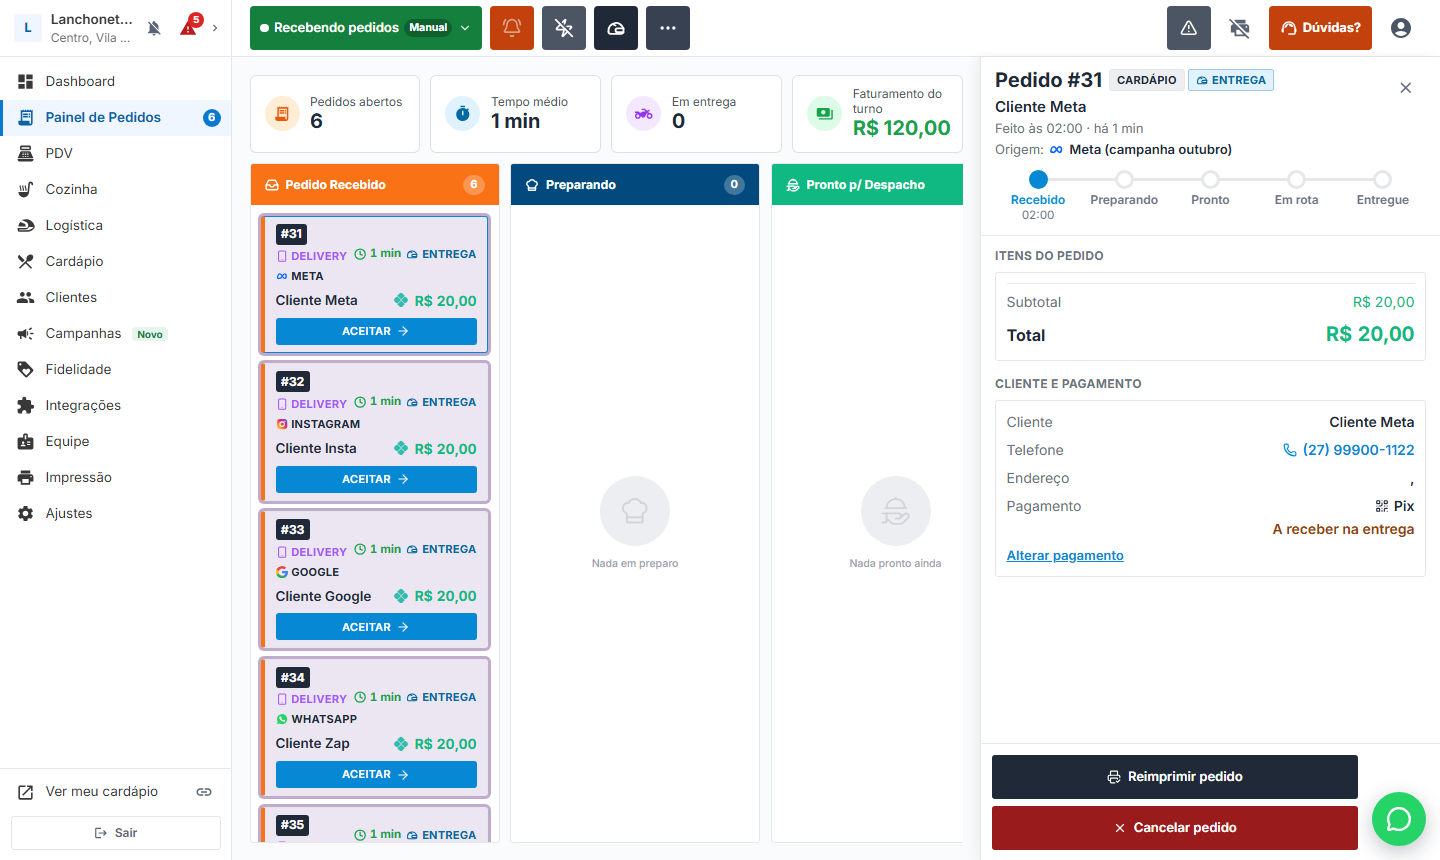
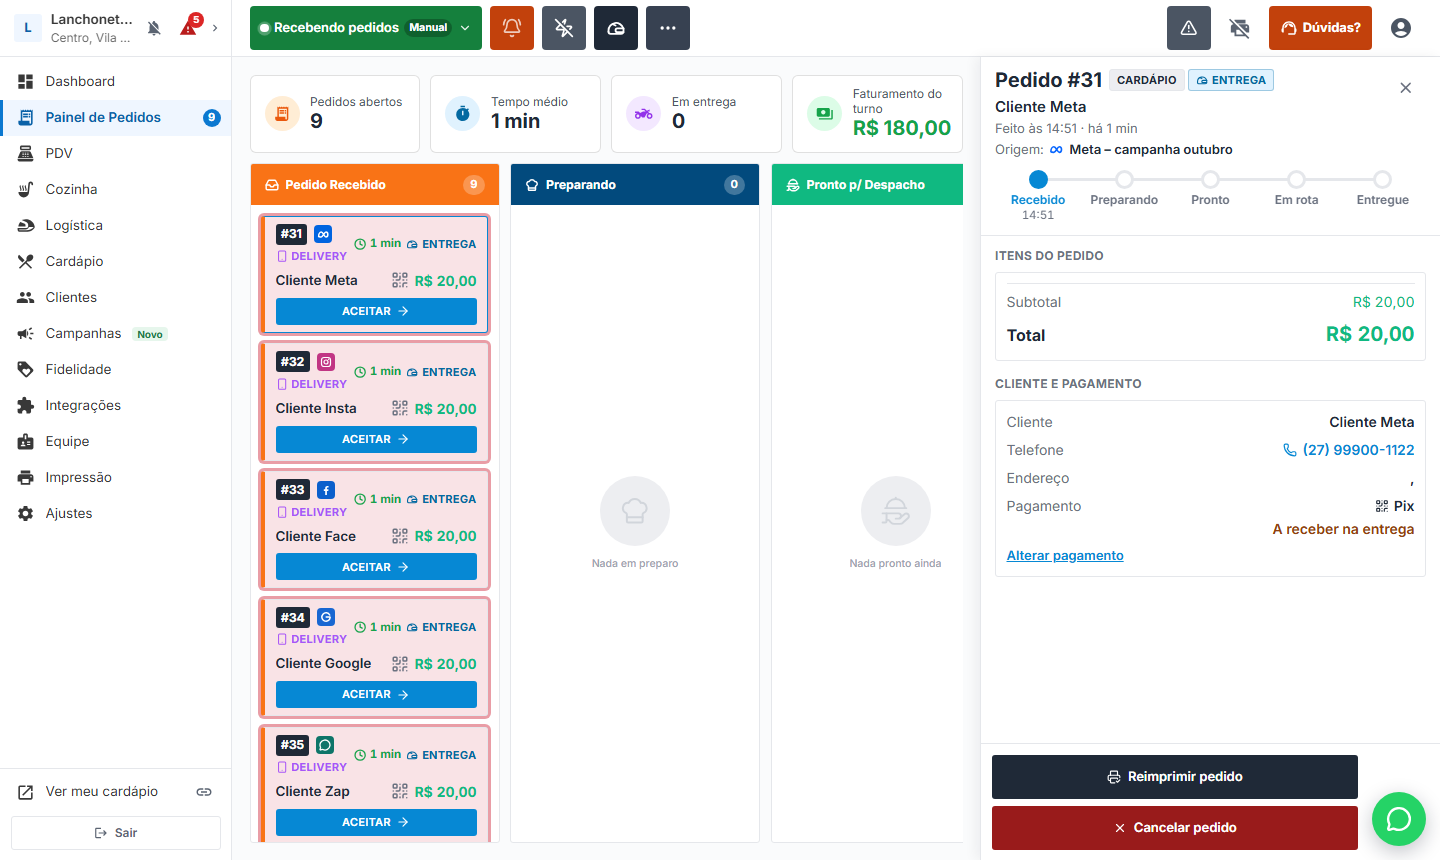
fix(kanban): card antigo + só o ícone da origem ao lado do número, com dica (decisão do dono, 07/10)
- Mantém a volta ao visual de antes do item 56 (efce662) e muda só isto no card antigo: o ícone da
  origem da vitrine (Meta, Facebook, Instagram, Google, WhatsApp, QR Code, Outros) num selo de 18 px
  colado no número, com a dica "Origem: Instagram – campanha X" na camada máxima (Dica).
- Selo com fundo sólido na cor da marca escurecida e desenho branco (≥ 5:1); Direto, PDV, Mesa e
  Balcão sem ícone; o card não ganha linha.
- Pagamento com os ícones antigos (sai o Pix colorido do item 56).
- Painel lateral continua mostrando a origem.
- e2e-kanban-origem 29/29; e2e-origem-55 tira os pedidos TESTE… como o Dashboard (35/35);
  pdv-atendimento 97/97 e balcao-entrega 84/84 voltaram a passar com o card antigo.

Changed region(s): [[0.1562, 0.2419, 0.3438, 0.9977], [0.7188, 0.1209, 0.875, 0.1814], [0.625, 0.1209, 0.6562, 0.1814]]

diff --git a/app/admin/pedidos/page.tsx b/app/admin/pedidos/page.tsx
@@ -45,7 +45,7 @@ import { buscarFluxoLoja, buscarStatusELoja, definirStatusLoja, FLUXO_LOJA_PADRA
 import { lojaEstaAberta, type HorarioFuncionamento, type StatusLoja } from '@/lib/timezone'
 import { notificarPedido } from '@/lib/notificar'
 import { etiquetasDoPedido, origemVisivelNoCard, rotuloOrigemPedido as origemDoCard } from '@/lib/pedido-origem'
-import { IconeOrigem, IconePix } from '@/components/icones/origens'
+import { SeloOrigem } from '@/components/icones/origens'
 import { EtiquetaAtendimento } from '@/components/pedidos/etiquetas-pedido'
 import { Capacete } from '@/components/icones/capacete'
 import { Dica, Flutuante } from '@/components/ui/flutuante'
@@ -993,18 +993,21 @@ export default function PedidosPage() {
                         <div className="flex items-center justify-between gap-2">
                           <div className="flex min-w-0 flex-wrap items-center gap-x-2 gap-y-1">
                             <span className="rounded-menuzia bg-text-main px-1.5 py-0.5 text-sm font-bold text-white">#{order.numero}</span>
+                            {/* Origem do pedido da vitrine (item 55): só o ícone, ao lado do número, com a dica.
+                                Direto, PDV, Mesa e Balcão não mostram nada. É a única mudança no card antigo. */}
+                            {(() => {
+                              const o = order.origemCanal && order.origemCanal !== 'direto' ? origemVisivelNoCard(order) : null
+                              return o && !['pdv', 'mesa', 'balcao'].includes(o.icone) ? (
+                                <Dica texto={o.dica}>
+                                  <span className="inline-flex" aria-label={o.dica} data-testid="card-origem" data-origem={o.icone}>
+                                    <SeloOrigem canal={o.icone} />
+                                  </span>
+                                </Dica>
+                              ) : null
+                            })()}
                             {origemDoCard(order).posto === 'Salão' && <span className={`${SELO} text-[#047857]`} data-testid="selo-origem"><Store className="h-3.5 w-3.5" aria-hidden /> Salão</span>}
                             {origemDoCard(order).posto === 'PDV' && <span className={`${SELO} text-alert-text`} data-testid="selo-origem"><Monitor className="h-3.5 w-3.5" aria-hidden /> PDV</span>}
                             {origemDoCard(order).posto === 'Delivery' && <span className={`${SELO} text-purple`} data-testid="selo-origem"><Smartphone className="h-3.5 w-3.5" aria-hidden /> Delivery</span>}
-                            {/* Origem do pedido da vitrine (item 55): ícone e nome (Meta, Instagram, Google, WhatsApp…); Direto não mostra nada. */}
-                            {(() => {
-                              const o = order.origemCanal && order.origemCanal !== 'direto' ? origemVisivelNoCard(order) : null
-                              return o ? (
-                                <span className={`${SELO} text-text-main`} title={o.dica} aria-label={o.dica} data-testid="card-origem" data-origem={o.icone}>
-                                  <IconeOrigem canal={o.icone} className="h-3.5 w-3.5" /> {o.rotulo}
-                                </span>
-                              ) : null
-                            })()}
                             {order.agendadoPara && <Badge tone="alert">Agendado {textoAgendado(order.agendadoPara)}</Badge>}
                           </div>
                           <div className="flex flex-shrink-0 items-center gap-1.5">
@@ -1030,8 +1033,7 @@ export default function PedidosPage() {
                           <div className="flex flex-shrink-0 items-center gap-1.5">
                             {order.canal !== 'mesa' && (
                               <span className="inline-flex text-text-subtle" title={dicaPag} aria-label={dicaPag} data-testid="card-pagamento">
-                                {/* Ícones de pagamento do item 56 (mantidos a pedido do dono): Pix oficial, cartão azul, dinheiro verde. */}
-                                {order.formaPagamento === 'pix' ? <IconePix className="h-[16px] w-[16px]" /> : <IconePag className={`h-[18px] w-[18px] ${order.formaPagamento === 'dinheiro' ? 'text-[#047857]' : 'text-[#1D4ED8]'}`} aria-hidden />}
+                                <IconePag className="h-[18px] w-[18px]" aria-hidden />
                               </span>
                             )}
                             <span className="whitespace-nowrap text-[14px] font-bold tabular-nums text-status-ready" data-testid="card-preco">{brl(order.total)}</span>

diff --git a/components/icones/origens.tsx b/components/icones/origens.tsx
@@ -1,4 +1,4 @@
-import { Globe, Link2, Megaphone, Monitor, QrCode, Store, UtensilsCrossed } from 'lucide-react'
+import { Globe, Link2, Megaphone, MessageCircle, Monitor, QrCode, Store, UtensilsCrossed } from 'lucide-react'
 
 /**
  * Ícones das origens (item 55/56): marcas desenhadas em SVG simples (sem pacote de logos) + lucide.
@@ -74,5 +74,38 @@ export function IconePix({ className = 'h-4 w-4' }: P) {
     <svg viewBox="0 0 16 16" className={className} fill="#32BCAD" aria-hidden="true">
       <path d="M11.917 11.71a2.046 2.046 0 0 1-1.454-.602l-2.1-2.1a.4.4 0 0 0-.551 0l-2.108 2.108a2.044 2.044 0 0 1-1.454.602h-.414l2.66 2.66c.83.83 2.177.83 3.007 0l2.667-2.668h-.253zM4.25 4.282c.55 0 1.066.214 1.454.602l2.108 2.108a.39.39 0 0 0 .552 0l2.1-2.1a2.044 2.044 0 0 1 1.453-.602h.253L9.503 1.623a2.127 2.127 0 0 0-3.007 0l-2.66 2.66h.414zM14.377 6.496l-1.612-1.612a.307.307 0 0 1-.114.023h-.733c-.379 0-.75.154-1.017.422l-2.1 2.1a1.005 1.005 0 0 1-1.425 0L5.268 5.32a1.448 1.448 0 0 0-1.018-.422h-.9a.306.306 0 0 1-.109-.021L1.623 6.496c-.83.83-.83 2.177 0 3.008l1.618 1.618a.305.305 0 0 1 .108-.022h.901c.38 0 .75-.153 1.018-.421L7.375 8.57a1.034 1.034 0 0 1 1.426 0l2.1 2.1c.267.268.638.421 1.017.421h.733c.04 0 .079.01.114.024l1.612-1.612c.83-.83.83-2.178 0-3.008" />
     </svg>
+  )
+}
+
+/**
+ * Selo da origem no card do Kanban (2026-10-07): quadradinho de 18 px com fundo SÓLIDO na cor da
+ * marca (escurecida até o branco dar ≥ 4,5:1) e o desenho em branco. Só origens da vitrine — quem
+ * chama já tirou Direto, PDV, Mesa e Balcão.
+ */
+const COR_SELO: Record<string, string> = {
+  instagram: '#C13584', facebook: '#0B5FCC', meta: '#0064E0', google_anuncio: '#1967D2', google_busca: '#1967D2',
+  whatsapp: '#0E7569', qrcode: '#C2410C', outros: '#4B5563',
+}
+export function SeloOrigem({ canal }: { canal: string }) {
+  const cor = COR_SELO[canal] ?? '#4B5563'
+  const desenho = (() => {
+    switch (canal) {
+      case 'instagram':
+        return <svg viewBox="0 0 24 24" className="h-[12px] w-[12px]" aria-hidden="true"><rect x="3" y="3" width="18" height="18" rx="5" fill="none" stroke="#fff" strokeWidth="2.4" /><circle cx="12" cy="12" r="4" fill="none" stroke="#fff" strokeWidth="2.4" /><circle cx="17.3" cy="6.7" r="1.5" fill="#fff" /></svg>
+      case 'facebook':
+        return <svg viewBox="0 0 24 24" className="h-[12px] w-[12px]" aria-hidden="true"><path fill="#fff" d="M13.8 22v-8.2h2.8l.4-3.3h-3.2V8.4c0-.9.3-1.6 1.6-1.6h1.7V3.9c-.3 0-1.3-.1-2.5-.1-2.5 0-4.2 1.5-4.2 4.3v2.4H7.6v3.3h2.8V22h3.4Z" /></svg>
+      case 'meta':
+        return <svg viewBox="0 0 24 24" className="h-[13px] w-[13px]" aria-hidden="true"><path fill="none" stroke="#fff" strokeWidth="2.8" strokeLinecap="round" d="M3 15.5c0-4.5 2.3-8 4.8-8 3.6 0 5.6 9 8.6 9 1.9 0 3.6-1.6 3.6-4.5 0-3-1.6-4.5-3.4-4.5-3.3 0-5.4 9-8.8 9C5 16.5 3 15.9 3 15.5Z" /></svg>
+      case 'google_anuncio': case 'google_busca':
+        return <svg viewBox="0 0 24 24" className="h-[12px] w-[12px]" aria-hidden="true"><path fill="none" stroke="#fff" strokeWidth="3" strokeLinecap="round" d="M20 12.2h-7.6M19.4 8A8.4 8.4 0 1 0 20.4 13" /></svg>
+      case 'whatsapp': return <MessageCircle className="h-[12px] w-[12px] text-white" strokeWidth={2.6} aria-hidden="true" />
+      case 'qrcode': return <QrCode className="h-[12px] w-[12px] text-white" strokeWidth={2.6} aria-hidden="true" />
+      default: return <Globe className="h-[12px] w-[12px] text-white" strokeWidth={2.6} aria-hidden="true" />
+    }
+  })()
+  return (
+    <span className="inline-flex h-[18px] w-[18px] flex-shrink-0 items-center justify-center rounded-[4px]" style={{ background: cor }} data-selo-origem={canal}>
+      {desenho}
+    </span>
   )
 }

diff --git a/lib/pedido-origem-card.test.ts b/lib/pedido-origem-card.test.ts
@@ -10,8 +10,8 @@ describe('origem no card do Kanban (item 56)', () => {
   })
   it('vitrine com origem: ícone, nome curto e dica com a campanha', () => {
     expect(origemVisivelNoCard({ ...base, origemCanal: 'google_anuncio' })).toMatchObject({ icone: 'google_anuncio', rotulo: 'Google' })
-    expect(origemVisivelNoCard({ ...base, origemCanal: 'instagram', origemCampanha: 'festa' })?.dica).toBe('Origem: Instagram (campanha festa)')
-    expect(origemVisivelNoCard({ ...base, origemCanal: 'whatsapp', origemCampanha: 'robô' })?.dica).toBe('Origem: WhatsApp (robô de atendimento)')
+    expect(origemVisivelNoCard({ ...base, origemCanal: 'instagram', origemCampanha: 'festa' })?.dica).toBe('Origem: Instagram – campanha festa')
+    expect(origemVisivelNoCard({ ...base, origemCanal: 'whatsapp', origemCampanha: 'robô' })?.dica).toBe('Origem: WhatsApp – robô de atendimento')
   })
   it('PDV, balcão e mesa mostram o canal presencial', () => {
     expect(origemVisivelNoCard({ ...base, canal: 'balcao', origem: 'pdv', tipo: 'retirada' })?.rotulo).toBe('PDV')

diff --git a/lib/pedido-origem.ts b/lib/pedido-origem.ts
@@ -128,7 +128,7 @@ export function origemVisivelNoCard(pedido: PedidoParaRotulo & { origemCanal?: s
   const canal = pedido.origemCanal
   if (!canal || canal === 'direto' || !(canal in ROTULOS_CANAL_CARD)) return null
   const rotulo = ROTULOS_CANAL_CARD[canal]
-  return { icone: canal, rotulo, dica: `Origem: ${rotulo}${pedido.origemCampanha ? ` (${pedido.origemCampanha === 'robô' ? 'robô de atendimento' : `campanha ${pedido.origemCampanha}`})` : ''}` }
+  return { icone: canal, rotulo, dica: `Origem: ${rotulo}${pedido.origemCampanha ? ` – ${pedido.origemCampanha === 'robô' ? 'robô de atendimento' : `campanha ${pedido.origemCampanha}`}` : ''}` }
 }
 /** Nomes curtos do card (o modelo do item 56 mostra "Google", "Meta", "WhatsApp"). */
 const ROTULOS_CANAL_CARD: Record<string, string> = {
